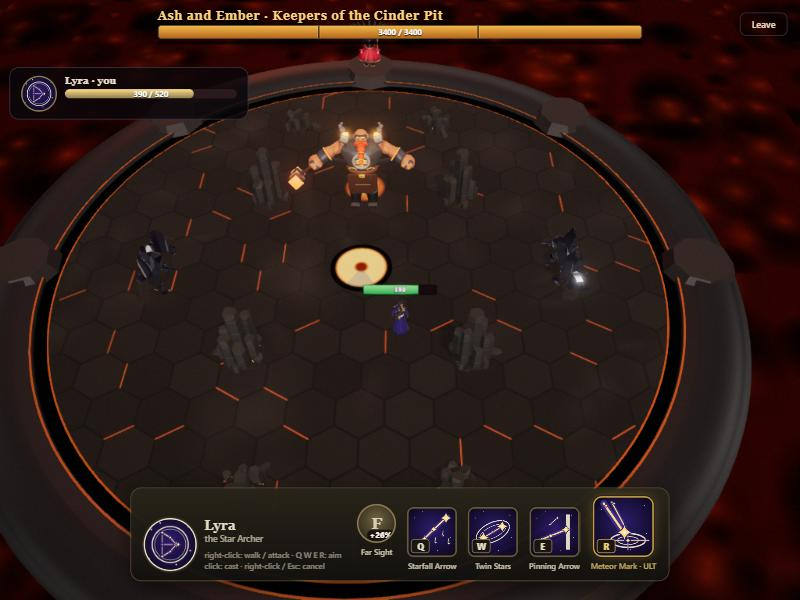
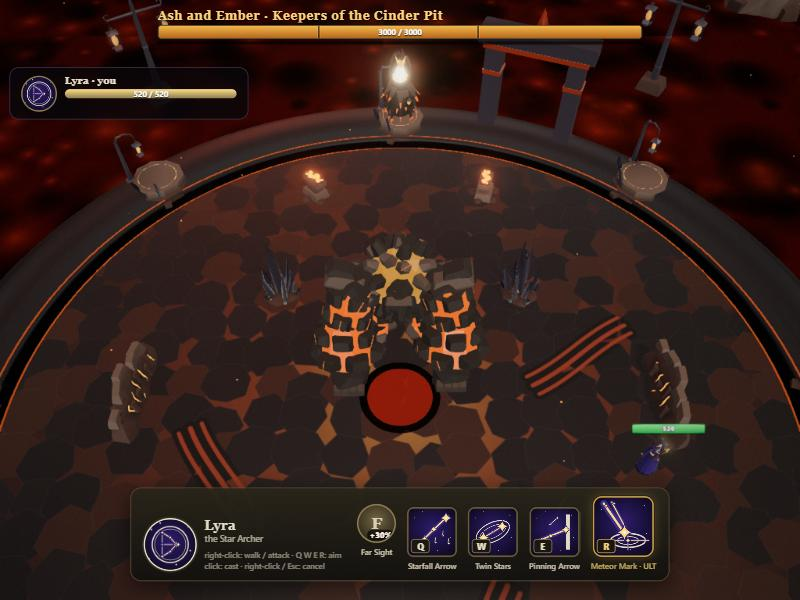
Pictures of the lairs and the hall as they look now, desktop and phone

diff --git a/docs/STATUS.md b/docs/STATUS.md
@@ -51,7 +51,7 @@ said "uncommitted" now name the commit that holds them.
 - **Retested 2026-11-07 (user: "retest all the functionality and refine it"), committed (`6ce58ff`, `8181c57`; `PROTOCOL` is now 4, so open tabs had to reload), pushed and live since the same day.** Real taps at phone size (375x812, emulated, touch layout on), bots for the second player, and one read-only code review. **Bugs fixed:** a click on your own portrait replaced a raid with a frozen duel on another arena and changed hero in any fight, **this one was on the live game until this deploy**: the shortcut is now the tool's only (`heroCycle`); Stone Skin and Glass Edge's HP did nothing, because a boss's share was of the max HP with upgrades (`hitBase`); a hero still down when the boss fell had the run ended under them if the partner left at the pick, with no way off the screen; being signed in elsewhere left a raid running that no longer counted; a Noon death left a flash stuck over the card, and the boss's bar stopped short of 0; the late floor's clock stopped on a fallen hero's screen, so the two screens drifted; Pim and Pom's second half was never told to the partner's screen; leaving a solo run lost its score; no way out of the upgrade screen; an empty offer showed a blank screen; a hostile client could crash the partner's frame or end the run. **Refined:** the phone starts a boss fight zoomed out; arrows to off-screen gold zones and a fallen partner; a countdown on the clear card; raid stats on the Profile; screens open at their top; Leave and Forfeit clear of the duel's bar; "1 match". **Checked:** `npm run test:server` with new cases; the type check and build; `_raidCheck`, `_raidAsh`, `_raidUpgrades` (two new checks for the HP upgrades); all 39 heroes in a normal duel before and after, no errors, no timeouts; all 39 against the Sun Warden and against Ash and Ember at tier 2 with four upgrades, no errors; a solo run by taps through both bosses, clear card and tier 2; two players through both bosses, the 30 s running out, going on to tier 2, a fall and a revive, the partner leaving at the pick, Tag Out on the partner's screen, a sign-in elsewhere; a queue match with rounds and a forfeit; a CPU duel with a summoner and a two-kit hero through the stages; every boss move looked at mid-warning at phone size. **Measured:** the autopilot alone clears Ash and Ember at 3,300 HP 23 of 39 in about 107 s and the Sun Warden 23 of 39 in about 96 s, so they are now level. A hidden tab was checked too: it keeps simulating from a timer and nothing piles up on its return. **Not checked:** a person playing, two real people, a real phone (touch was dispatched pointer events, and taps were mouse clicks at phone size), how hard it really is. **Left for the user to choose:** five things, done in the entry below.
 - **The five open choices, done 2026-11-07 (user: "Yes fix all"; which way to take each was my call), committed (`73fcbd7` to `c2117a9`), pushed and live since the same day.** `PROTOCOL` stays 4: it isn't live yet, so the new messages ride on it. **The Raid shows to everyone**, in the top bar and on the login screen, in its own commit (`73fcbd7`) so it can be held back: a deploy now shows it to all. **Upgrades don't run out:** once fewer than three are left, Whetstone (8 % damage), Thick Hide (10 % max HP) and Steady Breath (cooldowns 5 % shorter) fill the cards, and each can be taken again. **Ember backs away** from a hero under 6 m, between her moves, at 2.4 m/s, round cover and off the edge and the rising lava. Backing straight into a rock cluster left her stuck at first (found by the test below, fixed in `af196e6`). **Slow, Weakened and Vulnerable on a boss count on both screens** (`boss_debuff`, `peer_debuff`); Vulnerable wasn't asked for, but had the same bug. **A boss between the camera and a hero fades** to 10 %, for this hero or the partner, the one on the rim too. The camera stays put because the controls follow it. 40 % still looked solid and hid the hero, because it blends in linear light. **Checked:** the type check, build and `npm run test:server` with new relay cases; `_raidCheck`, `_raidAsh`, `_raidUpgrades` with new checks; Ember stepped from 16 directions: none stuck, no jitter, and in Together she stayed on the safe floor; two tabs with bots: the boss walks 2.0 m/s, 1.2 m/s when slowed from the other screen, then 2.0 again; a hit of 160 became 112 when weakened from the other screen; a hit of 130 became 169 when made vulnerable from the other screen; the fade on this hero and on the partner, seen in a screenshot on desktop and at phone size (375x812, emulated); a filler card picked by a click at tier 5; Leave on the upgrade screen by a click; the autopilot against Ember on the real page, no console errors; 36 normal CPU duels with six heroes who use the changed code, no errors, every one with a winner. **Measured, autopilot alone, all 39 once each, no errors:** Ash and Ember 22 of 39 in about 124 s (23 in about 107 s before her retreat). Melee heroes clear them 36 % with the retreat (4 of 11) and 36 % without (8 of 22), at 23 and 26 damage a second, so there is no sign the retreat is why melee is low there, though samples this small can't say much. **Not checked:** a person playing, two real people, a real phone, how hard it really is, whether the fade feels right in a real fight, and whether a hero skirting the boss's edge makes it pulse. Not run on this code: the 39 heroes against the Sun Warden, and a whole run for two. **Known:** the first fade in a session builds a shader, a pause of about 50 ms on a desktop, not measured on a phone.
 - **Noonfall, built 2026-11-07, committed (`cd7b5ce` to `85b0ffd` and the status commits), not pushed, not live** (user: "make like dedication like new place for them", "make the bosses be different than from heroes", "all should have like phases and spells to dodge", "so players can do mechanics of the boss when playing"; asked and answered the same day: one place to walk through, the same bosses with new bodies). Design: `pipeline/designs/raid-noonfall.md`; how it works: `docs/architecture/raid.md`. `PROTOCOL` is now 5, so a deploy makes open tabs reload. **The hall:** between fights a hero walks onto one of three altars to take its upgrade (or taps its card and walks there), then through the gate to the next boss, with a fade instead of menus; for two the hub's order is offer, gate, loading, fight (`raid_gate`, `raid_enter`). The boss rooms got the hall's gates, in and out; their floors and cover are as they were. **The bodies:** the Warden is a floating stone sentinel with a halo, a sun and two free fists; Ash a magma brute on his knuckles; Ember a flame in a burnt mantle with two lanterns. Rigid parts posed in code, a look per phase, built by a Blender subagent (`blender/bosses/boss_bodies.py`, sheets in `docs/bosses/`). **Mechanics players do, all by walking:** Turn the light (carry a sun shard to the altar while Noon gathers: he kneels and pays 5 %), Break the ray (Pillar Fall's stones stay 8 s, and his ray breaks on them: +40 on the gauge), Burn your own (carry Ember's mark onto the one in the ring: 4 % and +40), Seal the vent (hold the vent 4 s in Together: the lava waits 20 s, +40). What each earns is in one table the hub pays once per cast (`RAID_REWARDS`). **Found and fixed on the way:** Turn the light could never finish for two, because each screen had only its own hero's delivery and the partner's report found nothing (found by the final review; seen working after the fix in two tabs with bots: both shards, both deliveries, a kneel on both screens and exactly 5 % off); in a raid for two the hall's gate waited out its 15 s, because a tap on a card kept the hero on the altar; the autopilot walked back onto a spot something was about to hit; the cards overlapped on a phone. **Checked:** the type check, build and `npm run test:server` (new cases: a spot to the first report, rewards from the brain's screen only and once per cast, capped, the gate); `_raidCheck` 55 rows (three for Turn the light for two), `_raidAsh` 43, `_raidUpgrades` 37, with new rows for each mechanic; a solo run by real clicks through the hall's card, the gate, the Warden with his new body, then Ash and Ember; two tabs with bots through hall, Warden, hall, Ash and Ember into tier 2, a hall visit about 8 s, no errors; the hall at phone size (375x812, emulated) with a real tap on a card and through the gate; 36 normal CPU duels with six heroes, no errors and every one with a winner. **Also seen online:** a vent held by the partner holding back the lava on this screen. **Measured, autopilot alone, all 39 once each, no errors:** the Sun Warden 34 of 39 in about 98 s on the final code (23 before): turning the light takes his deadliest hit away, and at 3,600 HP he was still 33 of 39, so his HP stays 3,200 and how hard he should be waits for a person; Ash and Ember 23 of 39 in about 119 s at 3,000 HP alone (cut from 3,300, at which they fell to 17 with the mechanics). For two the HP is unchanged. **Not checked:** a person playing, two real people, a real phone, how the bodies' poses feel in a long fight (each seen on screen in passing), the glow strengths against the game's bloom (Ash's core is the brightest). **Known:** Ash's model is wider than his body, so a hit on a forearm counts only where the body is; a reward rides on the brain's screen.
-- **The bosses upgraded and their lairs, 2026-11-07, committed (`4a5c895` to `6e19e6a` and the docs commit), not pushed, not live** (user: "Continue to upgrade them", then "make the boss room different from the arena, it is supposed to be where the boss lives"). **Bodies:** a pose sheet tool (`pipeline/tools/boss-poses.js`) showed the halo, Ash's core and Ember's flame blooming over the rest of each body; their glow is held down so the shapes read. **A move each that uses the body:** Fists of the Court (the Warden's fists fly out and land where you stood, three of them), Knuckle Quake (cracks from Ash's fists cross where you stand), Lantern Toss (Ember's lanterns burst either side of you: stand still). A move names a body action (`BossMove.body`) and the body sends a part to where its zone is (`BodyParts.toward`). Ash's body widened to 1.8 m. **The lairs:** the Sun Court is the Warden's sanctum, the Cinder Pit Ash and Ember's den, each with its own Blender prop kit (`sanctum_props.glb`, `den_props.glb`, sheets in `docs/arenas/`), floor, backdrop and air (drifting rocks and motes; embers). Every obstacle is where it was, so no move changed. The hall shows both kits. **Checked:** the type check, build and `npm run test:server`; `_raidCheck` 57 rows and `_raidAsh` 47, with rows for each new move; each new move's body seen on screen landing in its zone (a fist lands at its target at 1.4 s, the lanterns in their circles, Ash's slam over the crossing cracks); both lairs and the hall in the game page with no console errors; the sanctum's cracked and broken walls drawn from its kit. **Measured, autopilot alone, all 39 once each, no errors:** the Warden 32 of 39 in about 102 s after one tune (37 with two fists, before three fists and shorter pauses); Ash and Ember 26 of 39 in about 130 s. The autopilot dodges circles perfectly, so these say little about a person. **Not checked:** a person playing, two real people, a real phone, the lairs at phone size, the new moves for two (they are casts like any other), the props' look against the game's bloom beyond these screenshots. **Known:** Ember's core still glows white; the Ridge reads as a mound from above; the floating rocks are plain; the props are first pass for the artist to direct.
+- **The bosses upgraded and their lairs, 2026-11-07, committed (`4a5c895` to `6e19e6a` and the docs commit), not pushed, not live** (user: "Continue to upgrade them", then "make the boss room different from the arena, it is supposed to be where the boss lives"). **Bodies:** a pose sheet tool (`pipeline/tools/boss-poses.js`) showed the halo, Ash's core and Ember's flame blooming over the rest of each body; their glow is held down so the shapes read. **A move each that uses the body:** Fists of the Court (the Warden's fists fly out and land where you stood, three of them), Knuckle Quake (cracks from Ash's fists cross where you stand), Lantern Toss (Ember's lanterns burst either side of you: stand still). A move names a body action (`BossMove.body`) and the body sends a part to where its zone is (`BodyParts.toward`). Ash's body widened to 1.8 m. **The lairs:** the Sun Court is the Warden's sanctum, the Cinder Pit Ash and Ember's den, each with its own Blender prop kit (`sanctum_props.glb`, `den_props.glb`, sheets in `docs/arenas/`), floor, backdrop and air (drifting rocks and motes; embers). Every obstacle is where it was, so no move changed. The hall shows both kits. **Checked:** the type check, build and `npm run test:server`; `_raidCheck` 57 rows and `_raidAsh` 47, with rows for each new move; each new move's body seen on screen landing in its zone (a fist lands at its target at 1.4 s, the lanterns in their circles, Ash's slam over the crossing cracks); both lairs and the hall in the game page with no console errors; the sanctum's cracked and broken walls drawn from its kit; six CPU duels on the Temple, whose cover code now takes a kit, with no errors and a winner each; both lairs at phone size (375x812, emulated), the south gate and props clear of the hero. Pictures: `docs/arenas/suncourt.jpg`, `cinderpit.jpg`, `noonfall-hall.jpg`, `suncourt-phone.jpg`, `cinderpit-phone.jpg` (the old Noon picture of the temple look is gone). **Measured, autopilot alone, all 39 once each, no errors:** the Warden 32 of 39 in about 102 s after one tune (37 with two fists, before three fists and shorter pauses); Ash and Ember 26 of 39 in about 130 s. The autopilot dodges circles perfectly, so these say little about a person. **Not checked:** a person playing, two real people, a real phone, the lairs at phone size, the new moves for two (they are casts like any other), the props' look against the game's bloom beyond these screenshots. **Known:** Ember's core still glows white; the Ridge reads as a mound from above; the floating rocks are plain; the props are first pass for the artist to direct.
 - **Next in the build order:** friend brackets, then spectating. Before those, a person should play the Raid: nothing in it has been played by anyone.
 - **Waiting on the user:** whether to push and deploy Noonfall; playing the Raid and saying how hard it is, the Warden above all now; whether to raise Nyx (reported too strong before her nerf, a person playing her has not been measured) and Pim and Pom, and whether Gus, down to 33 at 39 fights after the goal rule, needs a longer run.
 - **Not checked by anyone yet:** a person playing any v5 kit, a real phone, two real people online.
